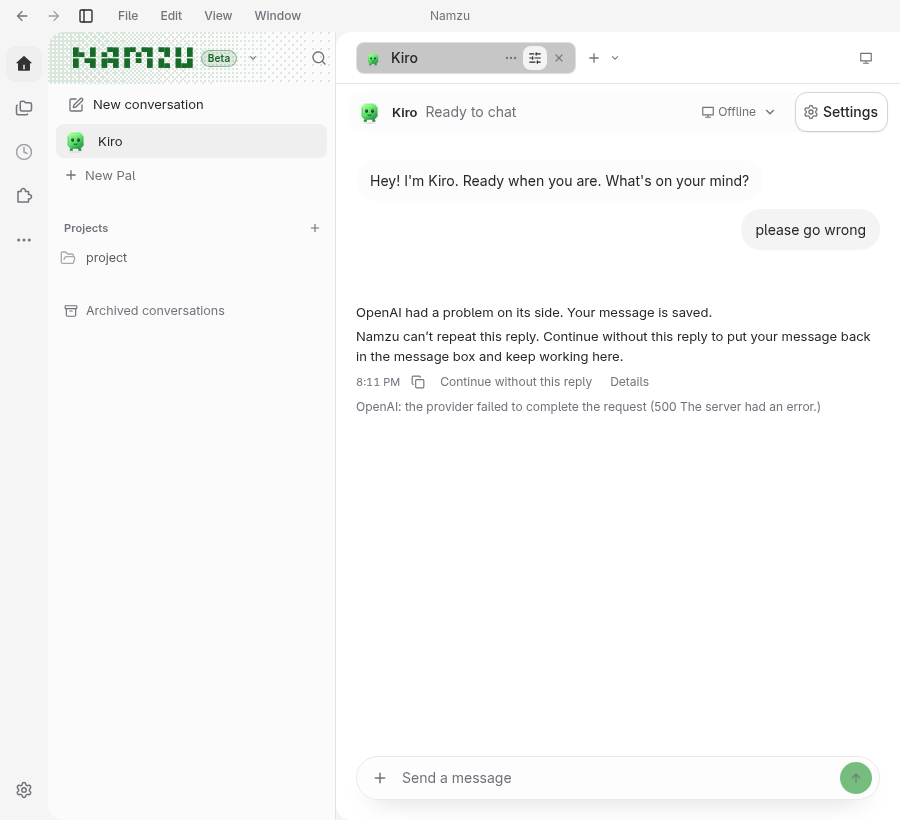
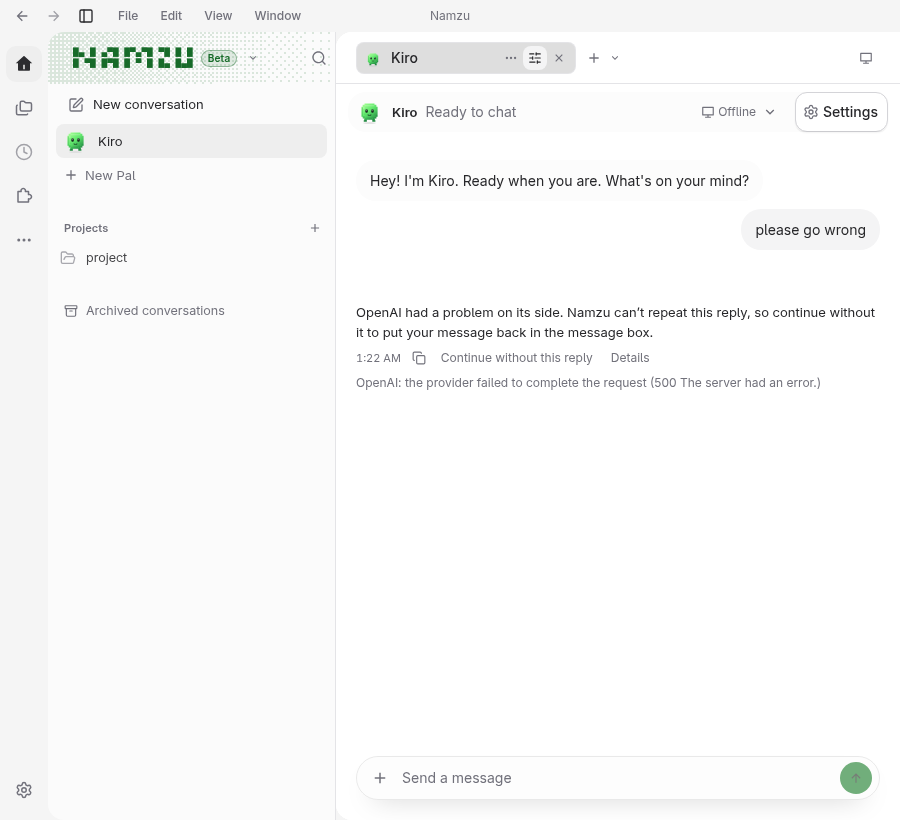
fix(desktop): one message for a failed reply that cannot be repeated, and no heading over a short pane's tab strip

Changed region(s): [[0.4044, 0.3659, 0.9644, 0.5183]]

diff --git a/packages/desktop/src/renderer/turn-recovery.test.ts b/packages/desktop/src/renderer/turn-recovery.test.ts
@@ -1,7 +1,7 @@
 import { createElement } from 'react'
 import { renderToStaticMarkup } from 'react-dom/server'
 import { expect, it } from 'vitest'
-import { describeBlockedRetry, describeFailure } from './friendly-errors.js'
+import { combineStopped, describeBlockedRetry, describeFailure } from './friendly-errors.js'
 import { TurnRecovery, recoveryActions, recoveryKey } from './turn-recovery.js'
 
 const retry = { turnId: 'turn', checkpointId: 'checkpoint' }
@@ -115,4 +115,44 @@ it('keys the Details toggle on the conversation and the failure, so a new failur
 	expect(recoveryKey('a', [bad])).not.toBe(recoveryKey('b', [bad]))
 	expect(recoveryKey('a', [bad])).not.toBe(recoveryKey('a', [other]))
 	expect(recoveryKey('a', [])).not.toBe(recoveryKey('a', [bad]))
+})
+
+it('shows a cause and a refusal to repeat as one message with one row and no Retry', () => {
+	const cause = describeFailure(
+		'openai (HTTP 500) — the provider failed to complete the request: 500 Internal Server Error',
+	)
+	const blocked = describeBlockedRetry(
+		'This provider request has unresolved token usage. Retry requires its actual provider usage receipt; the original turn is retained.',
+	)
+	const failures = combineStopped(cause, blocked)
+	expect(failures).toHaveLength(1)
+	const html = render({
+		failures,
+		onAction: () => {},
+		time: { at: Date.UTC(2026, 9, 10, 12, 0), source: 'host' },
+	})
+	const main = sentenceOf(html)
+	expect(main.match(/<p /g)).toHaveLength(1)
+	expect(main).toContain('OpenAI had a problem on its side.')
+	expect(main).toContain('can’t repeat this reply')
+	expect(main).not.toMatch(/Your message is saved|Try again|receipt|retained|token/i)
+	expect(html).not.toContain('aria-label="Retry')
+	expect(html).toContain('aria-label="Copy"')
+	expect(html).toContain('>Continue without this reply<')
+	expect(html).toContain('<time')
+	expect(html).toMatch(/aria-expanded="false" aria-controls="[^"]+">Details<\/button>/)
+	// Details keep the labelled fields of the cause.
+	expect(html).toContain(
+		'OpenAI: the provider failed to complete the request (500 Internal Server Error)',
+	)
+})
+
+it('keeps a still-finishing notice alone and a lone failure untouched', () => {
+	const cause = describeFailure(
+		'openai (HTTP 500) — the provider failed to complete the request: x',
+	)
+	const busy = describeBlockedRetry('Wait for this conversation’s active turn to settle.')
+	expect(combineStopped(cause, busy)).toEqual([busy])
+	expect(combineStopped(cause, undefined)).toEqual([cause])
+	expect(combineStopped(undefined, undefined)).toEqual([])
 })

diff --git a/packages/desktop/src/renderer/composer.tsx b/packages/desktop/src/renderer/composer.tsx
@@ -390,6 +390,14 @@ export function Composer({
 		const stage = node?.parentElement
 		if (!node || !stage) return
 		const update = () => {
+			// The big heading sits above the centred box. When the pane is too short to hold it
+			// without reaching the tab strip, it is dropped rather than drawn over it.
+			const heading = node.querySelector<HTMLElement>('[data-composer-heading]')
+			const box = node.querySelector<HTMLElement>('[data-chat-composer-stack]')
+			if (heading && box) {
+				const fits = box.offsetTop >= heading.offsetHeight + 32 + 8
+				if (node.dataset.headingFits !== String(fits)) node.dataset.headingFits = String(fits)
+			}
 			const height = `${centered ? 0 : node.getBoundingClientRect().height}px`
 			if (stage.style.getPropertyValue('--composer-height') !== height)
 				stage.style.setProperty('--composer-height', height)
@@ -426,6 +434,7 @@ export function Composer({
 		if (nextTop !== undefined) previous.current = { top: nextTop, empty: centered }
 		const observer = new ResizeObserver(scheduleResize)
 		observer.observe(node)
+		if (stack) observer.observe(stack)
 		update()
 		return () => {
 			observer.disconnect()
@@ -440,7 +449,7 @@ export function Composer({
 			data-composer-variant={variant}
 			className={
 				centered
-					? 'composer-wrap pointer-events-none absolute inset-0 z-20 flex items-center'
+					? 'composer-wrap composer-wrap-centered pointer-events-none absolute inset-0 z-20 flex items-center'
 					: 'composer-wrap pointer-events-none absolute inset-x-0 bottom-0 z-20 pt-1.5 sm:pt-2'
 			}
 		>
@@ -451,7 +460,10 @@ export function Composer({
 				>
 					{empty && !compact && (
 						<div className="absolute inset-x-0 bottom-full pb-8">
-							<h1 className="text-center text-2xl font-normal tracking-tight text-foreground sm:text-3xl">
+							<h1
+								data-composer-heading
+								className="text-center text-2xl font-normal tracking-tight text-foreground sm:text-3xl"
+							>
 								{emptyHeading}
 							</h1>
 						</div>

diff --git a/packages/desktop/src/renderer/friendly-errors.ts b/packages/desktop/src/renderer/friendly-errors.ts
@@ -468,6 +468,35 @@ export function describeBlockedRetry(notice: string): FriendlyFailure {
 	}
 }
 
+/**
+ * What a stopped reply shows when it has both a cause and a refusal to repeat it. They are one
+ * event, so they are one message: what happened, then the one way on. The cause's own next step
+ * ("Try again", "Your message is saved") is dropped because repeating is refused, and its Details
+ * stay. A refusal that is only "still finishing" or "waiting" is not a second cause and stays alone.
+ */
+export function combineStopped(
+	cause: FriendlyFailure | undefined,
+	blocked: FriendlyFailure | undefined,
+): FriendlyFailure[] {
+	if (!cause) return blocked ? [blocked] : []
+	if (!blocked) return [cause]
+	if (blocked.kind !== 'cannot-repeat') return [blocked]
+	const what = cause.text
+		.replace(/\s*Your message is saved\.?/i, '')
+		.replace(/\s*Try again\.?\s*$/i, '')
+		.trim()
+	const actions: FailureAction[] = cause.actions.filter((action) => action !== 'try-again')
+	for (const action of blocked.actions) if (!actions.includes(action)) actions.push(action)
+	return [
+		{
+			kind: cause.kind,
+			text: `${what} Namzu can’t repeat this reply, so continue without it to put your message back in the message box.`,
+			actions,
+			...(cause.details ? { details: cause.details } : {}),
+		},
+	]
+}
+
 /** Seconds left in a provider's requested wait, rounded up so it never reads 0 while time remains. */
 export function waitSeconds(wait: { at: number; delayMs: number }, now: number): number {
 	return Math.max(0, Math.ceil((wait.at + wait.delayMs - now) / 1000))

diff --git a/packages/desktop/src/renderer/app.tsx b/packages/desktop/src/renderer/app.tsx
@@ -118,6 +118,7 @@ import { ProjectFilesContext } from './file-panel/project-files.js'
 import { createLinkCache } from './file-panel/project-refs.js'
 import { FolderAccessDialog } from './folder-access-dialog.js'
 import {
+	combineStopped,
 	describeBlockedRetry,
 	describeEngineFailure,
 	describeFailure,
@@ -4453,10 +4454,10 @@ export function App({
 	)?.label
 	// "Continue without this reply" failed: the conversation itself cannot take the message back,
 	// so the same words offer to carry it to a new conversation instead.
-	const baseFailures = [
-		...(thread.error ? [describeFailure(thread.error, failedProviderLabel)] : []),
-		...(thread.retryNotice ? [describeBlockedRetry(thread.retryNotice)] : []),
-	]
+	const baseFailures = combineStopped(
+		thread.error ? describeFailure(thread.error, failedProviderLabel) : undefined,
+		thread.retryNotice ? describeBlockedRetry(thread.retryNotice) : undefined,
+	)
 	const replyFailures = baseFailures.map((failure) =>
 		continueFailed === sessionId && failure.actions.includes('continue')
 			? { ...failure, actions: [...failure.actions, 'copy-to-new' as const] }

diff --git a/packages/desktop/src/renderer/composer.css b/packages/desktop/src/renderer/composer.css
@@ -1,3 +1,15 @@
+/*
+ * A pane too short for the big welcome heading drops it (the composer measures this), and a pane
+ * too short for the centred box scrolls it inside the pane instead of drawing over the tab strip.
+ */
+.composer-wrap.composer-wrap-centered {
+	align-items: safe center;
+	overflow-y: auto;
+}
+.composer-wrap[data-heading-fits="false"] [data-composer-heading] {
+	visibility: hidden;
+}
+
 /* One control treatment for project, permission, model and engine selectors. */
 .composer-control {
 	transition: background-color 140ms var(--motion-ease), color 140ms var(--motion-ease), box-shadow

diff --git a/docs/cli/desktop.md b/docs/cli/desktop.md
@@ -793,6 +793,12 @@ files in its composer, not sent). When a failure message is shown, the "Paused."
 not (they named a cause the person never hit; the stop reason `token_budget` is also what an
 unmeasured request leaves behind, which is not a spent budget).
 
+A reply that failed and cannot be repeated is one message, not two: the cause and the refusal are
+joined (`combineStopped`), so a project or Pal conversation reads "OpenAI had a problem on its side. Namzu
+can't repeat this reply, so continue without it to put your message back in the message box." in the
+same row as any failed reply (time, Copy, **Continue without this reply**, Details), with no Retry. The
+cause's own "Try again" and "Your message is saved" are dropped, and its labelled Details stay.
+
 **Changing the model after a stopped reply.** Choosing another model is an explicit decision, so a reply
 that stopped on a provider failure (a rate limit, a 5xx, a rejected key, no connection) never holds the
 conversation. `namzu/sessions/retry-status` adds `closable: true` when the paused turn stopped on a provider
@@ -1808,7 +1814,7 @@ four- or eight-pane product limit. Existing splits remain readable after a
 window shrinks: side-by-side panes whose two minimums no longer fit the width are stacked, one above the other, the
 same way at every width (`fitWorkspaceDirections`; the saved direction and ratio are untouched, so widening the window puts them
 side by side again), because stacking keeps both panes in view with the same dividers and tabs while a one-pane switch would hide a
-running terminal; the page never scrolls sideways. Stacked panes still scroll vertically when their minimum heights exceed the window. Drag a divider to resize its branches, or focus it and use the
+running terminal; the page never scrolls sideways. Stacked panes still scroll vertically when their minimum heights exceed the window. A pane at its minimum height never draws its body over its tab strip: the empty conversation's large heading ("What should we work on in …?") is not drawn when the pane has no room above the message box for it (the composer measures this and sets `data-heading-fits`), and the box with its suggestions scrolls inside the pane (`e2e/ux-layout-geometry.test.mjs`, one, two and three stacked panes at 700 and 900 px). Drag a divider to resize its branches, or focus it and use the
 appropriate arrow keys; Shift makes a larger step, and Home/End reach the
 readable bounds. Keyboard and pointer changes preserve both branches' minimums.
 Group controllers keep stable identities when the tree gains or loses a split.

diff --git a/docs/log.md b/docs/log.md
@@ -1,5 +1,9 @@
 # Documentation update log
 
+## 2026-10-11
+
+- **Update** [Desktop](cli/desktop.md#what-a-failed-reply-says) and [Desktop](cli/desktop.md#conversation-panes-and-windows): a failed reply that cannot be repeated is one message (`combineStopped`) in the usual row, with no Retry and its Details intact, in project and Pal conversations; a pane at its minimum height drops the large welcome heading instead of drawing it over the tab strip, and its message box scrolls inside the pane. Covered by `e2e/ux-failed-reply-row.test.mjs` and `e2e/ux-layout-geometry.test.mjs`.
+
 ## 2026-10-10
 
 - **Update** [Desktop](cli/desktop.md#what-a-failed-reply-says): Details read a vendor's JSON error body (Anthropic, OpenAI, Google, a bare string) into one labelled line ("Status: 403 · Provider said: “…” · Type: …") with a separate Request ID line, and unknown shapes become a capped excerpt without braces. The window's error alert is a row above the panes instead of an overlay on the tab strip, is always dismissible and offers **Try again** only when a retry can help (not for "too small to split"); the computer page's banner is a grid row that covers nothing. Covered by `e2e/ux-layout-geometry.test.mjs` and `e2e/ux-provider-replies.test.mjs`.

diff --git a/.changeset/desktop-one-failed-reply-message-short-panes.md b/.changeset/desktop-one-failed-reply-message-short-panes.md
@@ -1,0 +1,5 @@
+---
+"@namzu/desktop": patch
+---
+
+A reply that failed and cannot be repeated is one message with one next step ("OpenAI had a problem on its side. Namzu can’t repeat this reply, so continue without it to put your message back in the message box."), in the same row as any failed reply, instead of a failure stacked on a refusal; Details keep their labelled fields. In a pane at its minimum height the empty conversation's large heading is dropped instead of being drawn over the tab strip, and the message box scrolls inside the pane.
